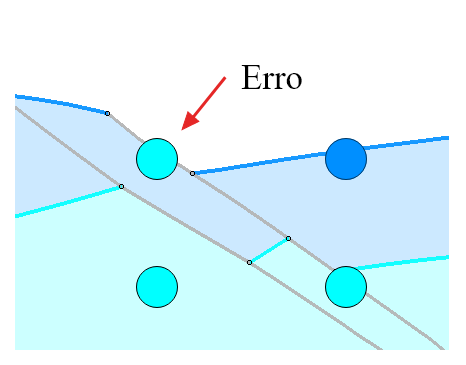
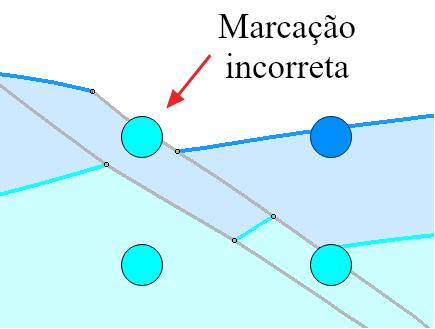
fix "error" word (too strong)

diff --git a/5-chapter-map-vol.tex b/5-chapter-map-vol.tex
@@ -198,7 +198,7 @@ Apesar de todos esses recursos para se gerar os pontos, descartar os de fora do 
 \begin{figure} [H]
   \begin{center}
     \includegraphics[width=200pt]{images/fig-vol-errors}
-    \caption{Erro passível de ocorrer na geração da nuvem de pontos.}\label{fig-vol-errors}
+    \caption{Trecho de nuvem de pontos com marcação de camada incorreta.}\label{fig-vol-errors}
   \end{center}
 \end{figure}
 
